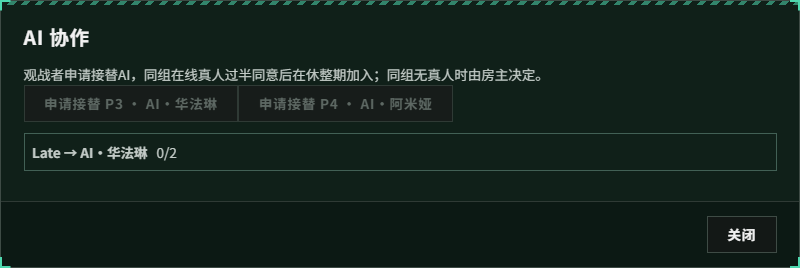
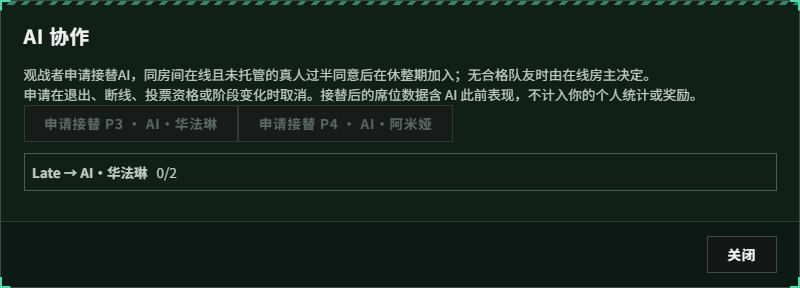
fix(coop): cancel stale AI votes and clarify inherited results (#691)

diff --git a/server/aiTakeover.js b/server/aiTakeover.js
@@ -7,7 +7,7 @@ export function resetAiTakeover(room) {
   if (votes) { for (const vote of votes.values()) clearTimeout(vote.timer); votes.clear(); }
   room.aiTakeoverVotes = [];
 }
-export function takeoverVoters(room, _botId) {
+export function takeoverVoters(room) {
   const m = room.match;
   const seats = room.seats.filter(s => s && !s.isBot && !s.left && s.connected);
   const ids = seats.filter(s => !m.players.get(s.playerId)?.autoplay).map(s => s.playerId);
@@ -29,33 +29,67 @@ export function transferAiSeat(lobby, room, applicantId, botId) {
   Object.assign(ps, { isBot: false, autoplay: false, connected: true, ready: false, name: session.name });
   Object.assign(seat, { isBot: false, connected: true, left: false, ready: false, name: session.name });
   m.loneHuman = m.order.filter(p => !p.isBot && !p.left).length === 1;
+  ps.aiTakeoverRound = m.round;
   session.aiTakeoverFrom = applicantId; m.markPublic(); ps.dirty();
   lobby.network.onHelloMsg(conn, { t: 'hello', version: 1, name: session.name, token: session.token }, Date.now());
   lobby.broadcastState(room); return { ok: true };
 }
+// [ASSUMED] Any electorate change cancels rather than lowering the approval threshold.
+function drop(votes, id) {
+  clearTimeout(votes.get(id)?.timer);
+  votes.delete(id);
+}
+function snapshot(room, votes) {
+  room.aiTakeoverVotes = [...votes.values()].map(v => ({ id: v.id, applicantId: v.applicantId,
+    applicantName: v.applicantName, botId: v.botId, expiresAt: v.expiresAt, eligible: v.eligible,
+    yes: [...v.yes], no: [...v.no] }));
+}
+export function reconcileAiTakeover(lobby, room) {
+  const votes = pending.get(room);
+  if (!votes?.size) return false;
+  const m = room.match;
+  const eligible = m ? takeoverVoters(room) : [];
+  let changed = false;
+  for (const [id, v] of votes) {
+    const applicant = lobby.registry.byId(v.applicantId), bot = m?.players?.get(v.botId);
+    if (m !== v.match || m.phase !== 'PREP' || m.round !== v.round || m.ended || m.disposed || m.emergencyFrozen
+      || !room.spectatorOf(v.applicantId)?.connected || !applicant?.connected || applicant.roomCode !== room.code
+      || !bot?.isBot || !bot.alive || bot.left || Date.now() >= v.expiresAt
+      || eligible.length !== v.eligible.length || eligible.some((id, i) => id !== v.eligible[i])) {
+      drop(votes, id); changed = true;
+    }
+  }
+  if (changed) snapshot(room, votes);
+  return changed;
+}
 export function aiTakeover(lobby, session, msg) {
   const room = lobby.roomOf(session), m = room?.match;
+  if (room && reconcileAiTakeover(lobby, room)) lobby.broadcastState(room);
   if (!room || !m || m.hosted || room.modded || m.phase !== 'PREP' || m.ended || m.disposed || m.emergencyFrozen) return fail('AI handover requires preparation in an original-content match');
   let votes = pending.get(room); if (!votes) pending.set(room, votes = new Map());
-  for (const [id, v] of votes) if (v.match !== m || v.expiresAt <= Date.now() || !room.spectatorOf(v.applicantId)) votes.delete(id);
-  const sync = () => { room.aiTakeoverVotes = [...votes.values()].map(v => ({ id: v.id, applicantId: v.applicantId, applicantName: v.applicantName, botId: v.botId, expiresAt: v.expiresAt, eligible: takeoverVoters(room, v.botId), yes: [...v.yes], no: [...v.no] })); lobby.broadcastState(room); };
+  const sync = () => { snapshot(room, votes); lobby.broadcastState(room); };
   if (msg.t === 'room.aiRequest') {
     const bot = m.players.get(msg.botId);
     if (!room.spectatorOf(session.playerId) || !session.connected || !bot?.isBot || bot.left || !bot.alive) return fail('a spectator must select an active AI');
     if ([...votes.values()].some(v => v.applicantId === session.playerId || v.botId === msg.botId)) return fail('request already pending');
+    const eligible = takeoverVoters(room);
+    if (!eligible.length) return fail('no online voter available');
     const id = String(room.aiTakeoverSeq = (room.aiTakeoverSeq || 0) + 1);
-    const vote = { id, applicantId: session.playerId, applicantName: session.name, botId: msg.botId, match: m, expiresAt: Date.now() + 30000, yes: new Set(), no: new Set() }; votes.set(id, vote);
-    const timer = setTimeout(() => { if (votes.get(id) === vote) { votes.delete(id); sync(); } }, 30000); vote.timer = timer; timer.unref?.(); sync(); return { ok: true };
+    const vote = { id, applicantId: session.playerId, applicantName: session.name, botId: msg.botId,
+      match: m, round: m.round, eligible, expiresAt: Date.now() + 30000, yes: new Set(), no: new Set() };
+    votes.set(id, vote);
+    vote.timer = setTimeout(() => { if (votes.get(id) === vote) { drop(votes, id); sync(); } }, 30000);
+    vote.timer.unref?.(); sync(); return { ok: true };
   }
   const vote = votes.get(msg.voteId);
-  if (!vote || vote.match !== m || Date.now() >= vote.expiresAt) return fail('request expired');
-  const eligible = takeoverVoters(room, vote.botId);
-  if (!eligible.includes(session.playerId)) return fail('only online human teammates can vote');
+  if (!vote) return fail('request expired');
+  if (!vote.eligible.includes(session.playerId)) return fail('only online human room teammates can vote');
   (msg.approve ? vote.no : vote.yes).delete(session.playerId);
   (msg.approve ? vote.yes : vote.no).add(session.playerId);
-  if (eligible.filter(id => vote.no.has(id)).length >= Math.floor(eligible.length / 2) + 1) { votes.delete(vote.id); sync(); return { ok: true }; }
-  if (eligible.filter(id => vote.yes.has(id)).length >= Math.floor(eligible.length / 2) + 1) {
-    votes.delete(vote.id); room.aiTakeoverVotes = [];
+  const required = Math.floor(vote.eligible.length / 2) + 1;
+  if (vote.no.size >= required) { drop(votes, vote.id); sync(); return { ok: true }; }
+  if (vote.yes.size >= required) {
+    drop(votes, vote.id);
     const result = transferAiSeat(lobby, room, vote.applicantId, vote.botId); sync(); return result;
   }
   sync(); return { ok: true };

diff --git a/test/ai-takeover.test.js b/test/ai-takeover.test.js
@@ -41,3 +41,61 @@ test('0.3.1 test-room acknowledgement and host-only controls survive AI handover
  assert.equal((await late.request({t:'g.test',cmd:'funds',args:{amount:99}})).t,'error','new teammate does not acquire host privileges');
  assert.equal((await late.request({t:'g.refresh'})).t,'ok');
 });
+
+for (const change of ['applicant leaves', 'applicant disconnects', 'voter disconnects', 'voter enables autoplay', 'phase changes', 'round changes', 'AI eliminated', 'expires']) {
+ test(`pending AI request is cancelled when ${change}`,async t=>{
+  const {srv,room,m,host,mate,late}=await fixture(t),bot=m.order[2];
+  await late.request({t:'room.aiRequest',botId:bot.playerId});const vote=room.aiTakeoverVotes[0];
+  await host.request({t:'room.aiVote',voteId:vote.id,approve:true});
+  switch(change){
+   case 'applicant leaves': await late.request({t:'room.leave'});break;
+   case 'applicant disconnects': await late.terminate();break;
+   case 'voter disconnects': await mate.terminate();break;
+   case 'voter enables autoplay': assert.equal((await mate.request({t:'g.autoplay',on:true})).t,'ok');break;
+   case 'phase changes': m.phase='COMBAT';m.markPublic();m.flush(true);break;
+   case 'round changes': m.round++;m.markPublic();m.flush(true);break;
+   case 'AI eliminated': bot.alive=false;m.markPublic();m.flush(true);break;
+   case 'expires': t.mock.method(Date,'now',()=>vote.expiresAt+1);srv.lobby.broadcastState(room);break;
+  }
+  // Socket closes reach the server asynchronously; no extra room action is needed to clear the request.
+  for(let i=0;i<50&&room.aiTakeoverVotes.length;i++)await new Promise(r=>setTimeout(r,10));
+  assert.equal(room.aiTakeoverVotes.length,0,change);assert.equal(bot.isBot,true);
+  assert.equal((await host.request({t:'room.aiVote',voteId:vote.id,approve:true})).t,'error');
+  if(change==='phase changes'){m.phase='PREP';assert.equal((await mate.request({t:'room.aiVote',voteId:vote.id,approve:true})).t,'error');}
+ });
+}
+
+test('no eligible teammates falls back to the online host, without borrowing earlier votes',async t=>{
+ const {room,m,host,mate,late}=await fixture(t),bot=m.order[2];
+ await host.request({t:'g.autoplay',on:true});await mate.request({t:'g.autoplay',on:true});
+ await late.request({t:'room.aiRequest',botId:bot.playerId});const vote=room.aiTakeoverVotes[0];
+ assert.deepEqual(vote.eligible,[host.id]);assert.equal((await mate.request({t:'room.aiVote',voteId:vote.id,approve:true})).t,'error');
+ late.clearInbox();assert.equal((await host.request({t:'room.aiVote',voteId:vote.id,approve:true})).t,'ok');
+ await late.waitFor('welcome',w=>w.playerId===bot.playerId);assert.equal(bot.isBot,false);
+});
+
+test('handover keeps seat results distinct from personal achievements and preserves reconnect/replay identity',async t=>{
+ const {srv,room,m,host,mate,late,player}=await fixture(t),bot=m.order[2],oldId=late.id,token=late.token;
+ bot.stats.kills=123;bot.stats.dmgDealt=456;const stock=m.pool;
+ await late.request({t:'room.aiRequest',botId:bot.playerId});const vote=room.aiTakeoverVotes[0];
+ await host.request({t:'room.aiVote',voteId:vote.id,approve:true});late.clearInbox();
+ await mate.request({t:'room.aiVote',voteId:vote.id,approve:true});await late.waitFor('welcome',w=>w.playerId===bot.playerId);
+ assert.equal(m.pool,stock);assert.equal(m.spectators.has(oldId),false);assert.equal(bot.aiTakeoverRound,1);
+ assert.equal(srv.network.conns.get(srv.registry.byToken(token).ws).session.playerId,bot.playerId);
+ assert.equal(bot.privateView().aiTakeoverRound,1);assert.equal(bot.stats.kills,123);
+ const {buildResult}=await import('../server/match/results.js');
+ const result=buildResult(m,{victory:true,hiddenReached:true,hiddenCleared:true,reason:'hidden_cleared'});
+ const row=result.players.find(p=>p.playerId===bot.playerId);
+ assert.equal(row.name,'Late');assert.equal(row.stats.kills,123);assert.equal(row.aiTakeoverRound,1);
+ assert.equal(row.title,null);assert.equal(row.trophies,0);assert.equal(row.reward,0);
+ const {buildRecord,countsTowardStats,recordToResult,normalizeRecord}=await import('../public/js/ui/stats.js');
+ const rec=normalizeRecord(buildRecord(result,{myId:bot.playerId,roomMode:'coop',now:1}));
+ assert.equal(countsTowardStats(rec),false);assert.equal(recordToResult(rec).players.find(p=>p.playerId===bot.playerId).aiTakeoverRound,1);
+ const hostRec=buildRecord(result,{myId:host.id,roomMode:'coop',now:1});assert.equal(countsTowardStats(hostRec),true);
+ const foreign=await player('Stranger');assert.notEqual(foreign.id,bot.playerId);
+ await late.terminate();const resumed=await player('Late',token);assert.equal(resumed.id,bot.playerId);
+ m.finish({victory:false,reason:'test'});const replay=await resumed.waitFor('m.result');
+ assert.equal(replay.playerId,bot.playerId);assert.equal(replay.players.find(p=>p.playerId===bot.playerId).aiTakeoverRound,1);
+ await resumed.terminate();const again=await player('Late',token);assert.equal(again.id,bot.playerId);
+ const replayed=await again.waitFor('m.result');assert.equal(replayed.playerId,bot.playerId);
+});

diff --git a/public/js/ui/stats.js b/public/js/ui/stats.js
@@ -184,6 +184,7 @@ function normalizePlayerRow(raw, quit = false) {
     seat: int(p.seat, 0),
     name: str(p.name, MAX_NAME) || '',
     isBot: bool(p.isBot),
+    ...(Number.isInteger(p.aiTakeoverRound) && p.aiTakeoverRound >= 1 ? { aiTakeoverRound: p.aiTakeoverRound } : {}),
     left: bool(p.left),
     alive: bool(p.alive, true),
     victory: bool(p.victory), // server semantics: team won AND this player was still in at the end
@@ -385,6 +386,7 @@ export function highestBondRecord(records) {
   for (const record of records) {
     if (record.end === 'quit' || record.compact || record.test === true) continue;
     const player = selfRowOf(record);
+    if (Number.isInteger(player?.aiTakeoverRound)) continue;
     for (const bond of player?.bonds || []) {
       if (!bond.active || !Number.isFinite(bond.layers) || bond.layers <= 0) continue;
       if (!best || bond.layers > best.bond.layers) best = { record, player, bond };
@@ -574,6 +576,7 @@ export function buildQuitRecord(state, ctx = {}) {
     content: contentOf(state.room?.content),
     players: [{
       playerId: myId, seat: row.seat, name: row.name, isBot: false, left: true, alive, victory: false, roundsPassed,
+      ...(Number.isInteger(row.aiTakeoverRound) ? { aiTakeoverRound: row.aiTakeoverRound } : {}),
       eliminatedRound: alive ? null : live.aliveRound, lp: row.lp, bandId: row.bandId,
     }],
   });
@@ -766,7 +769,7 @@ export function roundsOf(rec) {
 export function countsTowardStats(rec) {
   if (!isObj(rec)) return false;
   // Legacy test records never count. There is no switch that counts it (DESIGN §34.8).
-  if (rec.test === true) return false;
+  if (rec.test === true || Number.isInteger(selfRowOf(rec)?.aiTakeoverRound)) return false;
   if (rec.end !== 'quit') return true;
   const self = selfRowOf(rec);
   if (!self) return false;
@@ -786,7 +789,7 @@ export function strategyBadgeIds(records, bands) {
   for (const rec of Array.isArray(records) ? records : []) {
     if (!rec || rec.end === 'quit' || rec.test === true || rec.difficulty === 'TRAINING' || rec.modeId === 'mode_training_1') continue;
     const self = selfRowOf(rec);
-    if (!self?.bandId || !selfWon(rec, self)) continue;
+    if (!self?.bandId || Number.isInteger(self.aiTakeoverRound) || !selfWon(rec, self)) continue;
     clears.set(self.bandId, (clears.get(self.bandId) || 0) + 1);
   }
   return Object.values(bands || {}).filter((band) => Number.isInteger(band.victorCount) && band.victorCount > 0

diff --git a/public/js/ui/aiTakeover.js b/public/js/ui/aiTakeover.js
@@ -15,7 +15,8 @@ export function AiTakeoverPanel() {
   const name = id => (pub?.players || []).find(p => p.playerId === id)?.name || id;
   return html`<button type="button" class="btn ai-participation-entry" onClick=${() => setOpen(true)}>${t('AI 协作')}${votes.length ? ` (${votes.length})` : ''}</button>
     <${Modal} open=${open} onClose=${() => setOpen(false)} title=${t('AI 协作')} width="min(800px,92vw)" actions=${html`<${Button} onClick=${() => setOpen(false)}>${t('关闭')}<//>`}>
-      <p>${t('观战者申请接替AI，同组在线真人过半同意后在休整期加入；同组无真人时由房主决定。')}</p>
+      <p>${t('观战者申请接替AI，同房间在线且未托管的真人过半同意后在休整期加入；无合格队友时由在线房主决定。')}</p>
+      <p>${t('申请在退出、断线、投票资格或阶段变化时取消。接替后的席位数据含 AI 此前表现，不计入你的个人统计或奖励。')}</p>
       ${spectator ? html`<div class="ai-requests">${bots.map(p => html`<${Button} disabled=${busy || pub.phase !== 'PREP' || requests.some(v => v.botId === p.playerId || v.applicantId === myId)} onClick=${() => run('room.aiRequest', { botId: p.playerId })}>${t('申请接替')} P${p.seat + 1} · ${p.name}<//>`)}</div>` : null}
       ${requests.map(v => html`<div class="ai-vote"><strong>${v.applicantName} → ${name(v.botId)}</strong><span>${v.yes.filter(id => v.eligible.includes(id)).length}/${Math.floor(v.eligible.length / 2) + 1}</span>
         ${v.eligible.includes(myId) ? html`<${Button} disabled=${busy || pub?.phase !== 'PREP'} onClick=${() => run('room.aiVote', { voteId: v.id, approve: true })}>${t('同意')}<//><${Button} disabled=${busy} onClick=${() => run('room.aiVote', { voteId: v.id, approve: false })}>${t('不同意')}<//>` : null}</div>`)}

diff --git a/server/match/results.js b/server/match/results.js
@@ -91,7 +91,7 @@ export function buildResult(m, outcome) {
   const gd = m.gd;
   const { victory, hiddenReached, hiddenCleared } = outcome;
   const players = [...m.players.values()].sort((a, b) => a.seat - b.seat);
-  const titles = assignTitles(gd, players, victory);
+  const titles = assignTitles(gd, players.filter(ps => !Number.isInteger(ps.aiTakeoverRound)), victory);
   const teamRounds = victory ? gd.bossRound + (hiddenCleared ? 1 : 0) : Math.max(0, Math.min(m.round, gd.bossRound) - 1);
   const rows = players.map((ps) => {
     const roundsPassed = !ps.alive && ps.eliminatedRound != null ? Math.max(0, ps.eliminatedRound - 1) : teamRounds;
@@ -113,6 +113,7 @@ export function buildResult(m, outcome) {
       seat: ps.seat,
       name: ps.name,
       isBot: ps.isBot,
+      ...(Number.isInteger(ps.aiTakeoverRound) ? { aiTakeoverRound: ps.aiTakeoverRound } : {}),
       left: ps.left,
       alive: ps.alive,
       victory: cleared,
@@ -129,9 +130,9 @@ export function buildResult(m, outcome) {
         bossDamage: Math.round(ps.stats.bossDamage), activatedLayers: ps.activatedLayers(), lpLost: ps.stats.lpLost,
         perfectRounds: ps.stats.perfectRounds,
       },
-      title: m.test === true ? null : titles.get(ps.playerId) ?? null,
-      trophies: m.test === true ? 0 : trophiesFor(gd, roundsPassed, cleared && hiddenCleared),
-      reward: m.test === true ? 0 : rewardFor(gd, roundsPassed),
+      title: m.test === true || Number.isInteger(ps.aiTakeoverRound) ? null : titles.get(ps.playerId) ?? null,
+      trophies: m.test === true || Number.isInteger(ps.aiTakeoverRound) ? 0 : trophiesFor(gd, roundsPassed, cleared && hiddenCleared),
+      reward: m.test === true || Number.isInteger(ps.aiTakeoverRound) ? 0 : rewardFor(gd, roundsPassed),
     };
   });
   const out = {

diff --git a/test/ui/ai-takeover.e2e.test.js b/test/ui/ai-takeover.e2e.test.js
@@ -21,6 +21,10 @@ test('a spectator requests an AI in the browser, receives majority approval and 
   await host.request({t:'room.aiVote',voteId:vote.id,approve:true});await mate.request({t:'room.aiVote',voteId:vote.id,approve:true});
   await page.waitForFunction(async id=>{const {store}=await import('/js/store.js');const s=store.get();return s.me.playerId===id&&s.match.private?.playerId===id&&!s.ui.restoring;},{},bot.playerId);
   assert.equal(bot.isBot,false);await page.reload();await page.waitForFunction(async id=>{const {store}=await import('/js/store.js');return store.get().me.playerId===id&&store.get().match.private?.playerId===id;},{},bot.playerId);
-  assert.equal(bot.funds,71);assert.deepEqual(errors,[]);
+  assert.equal(bot.funds,71);
+  m.finish({victory:false,reason:'test'});
+  await page.waitForFunction(async id=>{const {store}=await import('/js/store.js');return store.get().match.result?.players?.some(p=>p.playerId===id&&p.aiTakeoverRound===1);},{},bot.playerId);
+  const history=await page.evaluate(async id=>{const {loadStats,countsTowardStats,recordToResult}=await import('/js/ui/stats.js');const records=loadStats().records;const own=records.find(r=>r.selfId===id);return {found:!!own,counts:countsTowardStats(own),round:recordToResult(own)?.players?.find(p=>p.playerId===id)?.aiTakeoverRound};},bot.playerId);
+  assert.deepEqual(history,{found:true,counts:false,round:1});assert.deepEqual(errors,[]);
  }finally{await browser.close();for(const c of clients)await c.terminate().catch(()=>{});await srv.close();}
 });

diff --git a/server/lobby.js b/server/lobby.js
@@ -1,4 +1,4 @@
-import { aiTakeover, resetAiTakeover } from './aiTakeover.js';
+import { aiTakeover, resetAiTakeover, reconcileAiTakeover } from './aiTakeover.js';
 // server/lobby.js — rooms, seats, host, AI seats, ready/start, reconnect, and room → Match wiring
 // (DESIGN §2, §6.1 LOBBY, §8.1). Implements the handler interface consumed by server/net.js.
 //
@@ -1486,6 +1486,7 @@ export class Lobby {
 
   /** Match broadcast; the latest m.public and a broadcast m.result are also kept for the replay. */
   matchBroadcast(room, ctx, msg) {
+    if (msg.t === 'm.public' && reconcileAiTakeover(this, room)) this.broadcastState(room);
     const data = this.broadcastRoom(room, msg);
     if (data == null) return;
     if (msg.t === 'm.public') ctx.lastPublic = data;
@@ -1626,6 +1627,7 @@ export class Lobby {
     let res;
     try {
       res = room.match.handle(session.playerId, msg);
+      if (reconcileAiTakeover(this, room)) this.broadcastState(room);
     } catch (e) {
       this.log.error(`[lobby] ${room.code} match.handle(${msg.t}) threw`, e);
       return fail(ERR.INTERNAL);
@@ -1852,6 +1854,7 @@ export class Lobby {
 
   broadcastState(room) {
     if (room.disposed) return;
+    reconcileAiTakeover(this, room);
     if (this.trustedRuntime) {
       const state = room.toState(), prev = room.trustedPrevious;
       const event = (name,extra={}) => this.trustedRuntime.event(name,{room:state,...extra});

diff --git a/public/js/screens/result.js b/public/js/screens/result.js
@@ -79,7 +79,8 @@ function PlayerCard({ p, myId, titles, best, solo = false }) {
       <${PlayerAvatar} player=${p} self=${p.playerId === myId} />
       <div class="rcard__who">
         <b class="rcard__name">${p.name}${p.isBot ? html`<span class="rcard__ai">AI</span>` : null}${p.playerId === myId ? html`<span class="rcard__you">${t('你')}</span>` : null}</b>
-        <span class="rcard__band">${band ? html`<${BandIcon} bandId=${band.bandId} size="xs" />${band.name}` : '—'}</span>
+        ${Number.isInteger(p.aiTakeoverRound) ? html`<small>${t('第 {round} 回合接替 AI；含此前席位数据，不计入个人统计或奖励。', { round: p.aiTakeoverRound })}</small>` : null}
+          <span class="rcard__band">${band ? html`<${BandIcon} bandId=${band.bandId} size="xs" />${band.name}` : '—'}</span>
       </div>
       <div class="rcard__mid">
         <div class="rcard__lineup">

diff --git a/public/js/main.js b/public/js/main.js
@@ -175,7 +175,7 @@ function onWelcome(msg) {
   welcomeAt = Date.now();
 
   if (msg.takeoverFrom === prevId && prevId != null) {
-    toast(t('你已接管AI席位，资金、阵容与分组已保留'), 'info');
+    toast(t('你已接管AI席位，资金、阵容与席位已保留'), 'info');
   } else if (prevId != null && prevId !== msg.playerId) {
     // A brand-new server session (the server restarted — crashed / killed, so no room.closed arrived — or this session
     // expired on it): whatever we showed before is gone — back to the lobby cleanly and say why.

diff --git a/public/js/ui/gameLogic/result.js b/public/js/ui/gameLogic/result.js
@@ -27,6 +27,7 @@ export function normalizeResult(res, pub) {
       seat: int(p.seat, int(pp.seat, 0)),
       name: p.name || pp.name || t('博士'),
       isBot: !!(p.isBot ?? pp.isBot),
+      aiTakeoverRound: p.aiTakeoverRound ?? pp.aiTakeoverRound ?? null,
       alive,
       lp: teamLp != null ? (alive === false ? 0 : Math.max(0, teamLp)) : ownLp,
       lpShared: teamLp != null,

diff --git a/server/match/match/views.js b/server/match/match/views.js
@@ -106,6 +106,7 @@ export class MatchViews {
         seat: ps.seat,
         name: ps.name,
         isBot: ps.isBot,
+        ...(Number.isInteger(ps.aiTakeoverRound) ? { aiTakeoverRound: ps.aiTakeoverRound } : {}),
         connected: ps.isBot || (ps.connected && !ps.left),
         alive: ps.alive,
         lp: Math.max(0, ps.lp),

diff --git a/server/match/player/views.js b/server/match/player/views.js
@@ -65,6 +65,7 @@ export class PlayerViews {
     return {
       t: 'm.private',
       playerId: this.playerId,
+      ...(Number.isInteger(this.aiTakeoverRound) ? { aiTakeoverRound: this.aiTakeoverRound } : {}),
       seat: this.seat,
       alive: this.alive,
       lp: this.lp,
